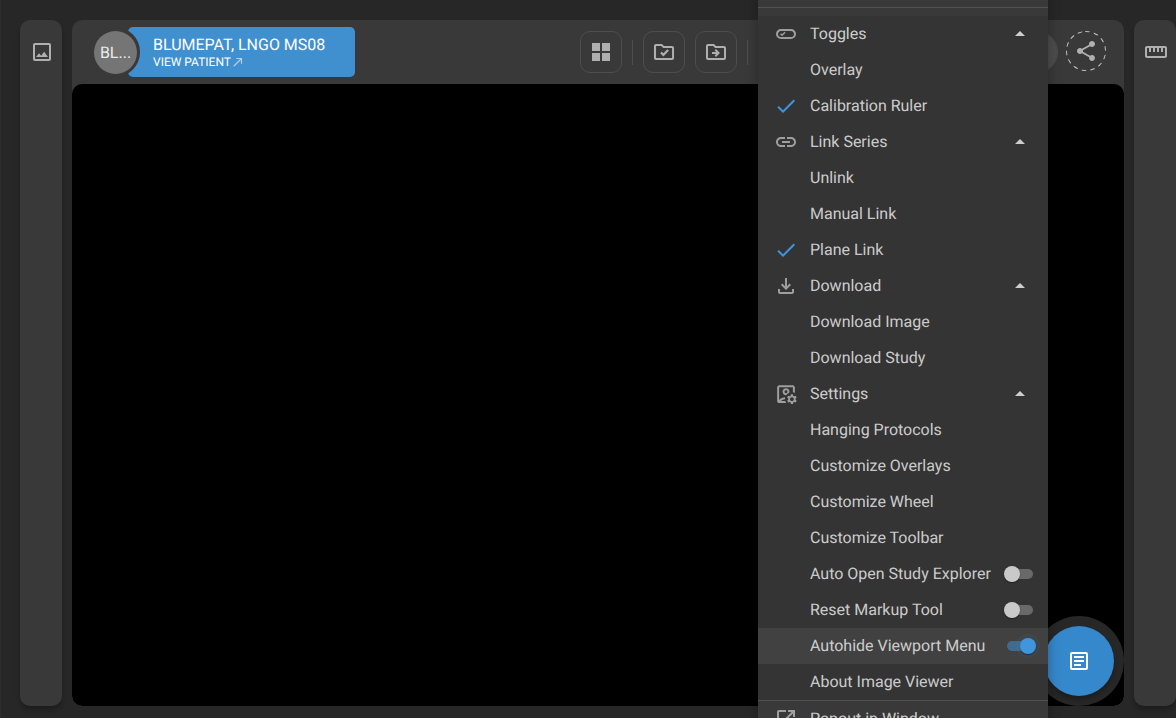
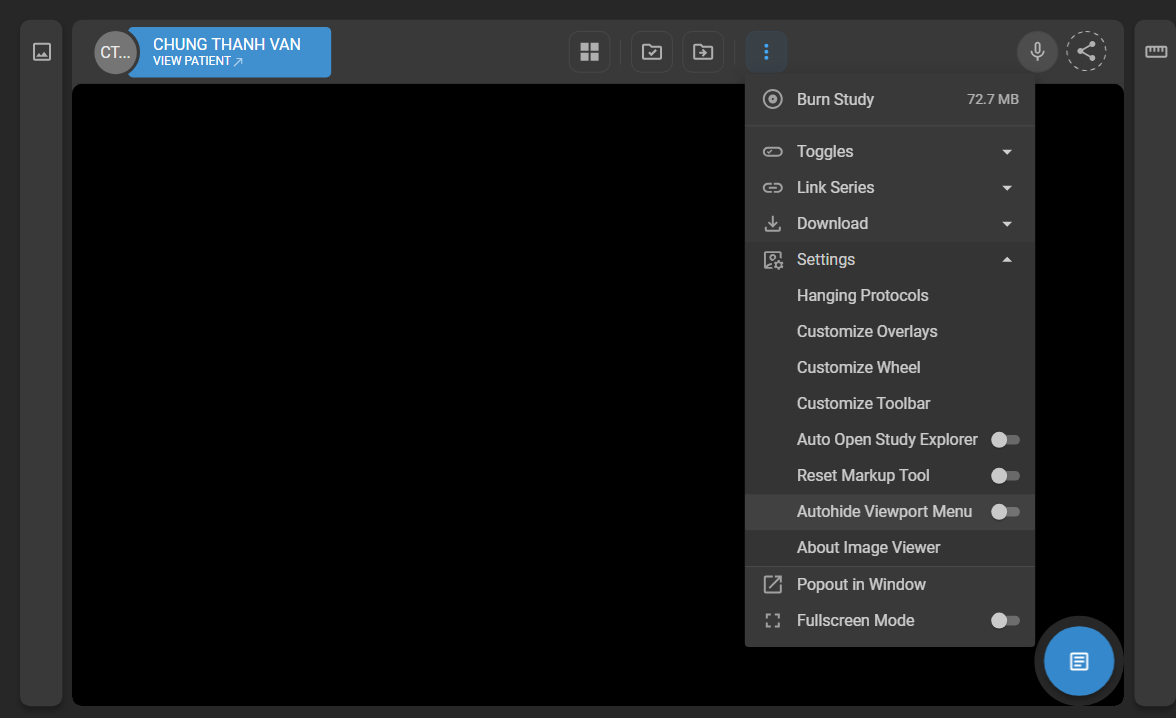
hmm

diff --git a/AutoSnap/test-enhanced-flow.js b/AutoSnap/test-enhanced-flow.js
@@ -1767,6 +1767,9 @@ if (listFilePath) {
             console.log(`📄 Files in default/translation list: ${allProcessedFiles.length}`);
             
             changedFiles = translationChangedFilesPath;
+            
+            // Clear folderPath to avoid conflict with changedFiles
+            folderPath = null;
         }
         
         // Display execution summary
@@ -1821,9 +1824,13 @@ if (listFilePath) {
             }
         }
         
-        // Continue to Tracewright execution - use existing changed files
-        console.log('✅ Translation mode processing completed, continuing to Tracewright execution...');
-        // No need to clear parameters - the main workflow will use changedFiles
+        // Don't exit - continue with Tracewright execution
+        console.log('✅ Translation mode processing completed, continuing to browser automation...');
+        
+        // Set up the environment for Tracewright
+        modeArg = 'translation'; // Keep mode as translation for browser automation
+        executionMode = 'translation'; // Keep track that we're in translation mode
+        // We'll continue to the main workflow now
     } catch (error) {
         console.error(`❌ Error in default/translation mode: ${error.message}`);
         process.exit(1);
@@ -2270,11 +2277,11 @@ const findSimilarImage = (expectedName, generatedImages) => {
     // First, execute the workflow to process command line arguments and interactive prompts
     await executeWorkflow();
     
-    // For translation mode, we've already processed the files but we need to continue to run Tracewright
-    // For other modes, if we've already processed files, we can exit
-    if (processedFileResults.length > 0 && executionMode !== 'translation') {
-        console.log('✅ File processing already completed, exiting');
-        process.exit(0);
+    // Don't skip the rest of the workflow for translation mode
+    // Just set a flag that we've already processed the folder
+    if (executionMode === 'translation') {
+        console.log('✅ Translation folder processing completed, continuing with browser automation...');
+        // Continue with the workflow - don't exit
     }
     
     console.log(`📋 Mode: ${SCENARIO_TYPE} - ${MODE_DESCRIPTIONS[SCENARIO_TYPE]}\n`);
@@ -2832,6 +2839,35 @@ if (hasNoDocumentContent) {
                     process.exit(1);
                 }
             }
+        } else if (executionMode === 'translation') {
+            // Translation mode: Use the language from the command line or detect from folder
+            try {
+                // Get language from command line or detect from folder
+                const targetLang = languageCodeArg || detectLanguageFromFolder(folderPath || '');
+                console.log(`🌐 Translation mode: setting language to ${targetLang}...`);
+                await selectLanguage(page, targetLang);
+                
+                // Check if language validation failed
+                if (languageValidationFailed) {
+                    console.log('⛔ Language validation failed in translation mode. Stopping workflow.');
+                    console.log('🛑 Exiting process with error code 1.');
+                    process.exit(1);
+                }
+                
+                // Navigate to worklist using the same home nav snippet after switching
+                try {
+                  const profileLink = page.locator('[data-cy="sidebar-home"]');
+                  await profileLink.waitFor({ state: 'visible', timeout: 15000 });
+                  await profileLink.click({ force: true });
+                  await page.waitForLoadState('networkidle', { timeout: 10000 });
+                  await page.waitForTimeout(3000);
+                } catch (navErr) {
+                  console.warn('⚠  Home nav click snippet failed after setting language (translation mode):', navErr?.message || navErr);
+                }
+                console.log(`✅ Translation mode: language set to ${targetLang}`);
+            } catch (langError) {
+                console.error(`❌ Error selecting language in translation mode:`, langError.message);
+            }
         } else {
             // Default path: force switch to English from any current language
             try {
@@ -2910,7 +2946,7 @@ if (hasNoDocumentContent) {
             const aiUtils = new AIUtilsEnhanced(page);
             
             // Set the current markdown file path for image reference
-            // Priority order: processedFileResults -> processedFiles -> testDocPath -> default
+            // Priority order: processedFileResults -> processedFiles -> default
             let currentFilePath = null;
             
             if (processedFileResults.length > 0) {
@@ -2927,26 +2963,7 @@ if (hasNoDocumentContent) {
                 console.log(`📄 Setting markdown path from processed files: ${currentFilePath}`);
             }
             
-            if (!currentFilePath) {
-                const testDocPath = 'C:/Users/Rohith.MR/test/HelpManualAutomationTest/docs/1-Getting-Started/addorg.md';
-                if (fs.existsSync(testDocPath)) {
-                    currentFilePath = testDocPath;
-                    console.log(`📄 Setting markdown path from test document: ${currentFilePath}`);
-                }
-            }
-            
-            if (!currentFilePath) {
-                // Use a specific markdown file as fallback, not a directory
-                currentFilePath = path.resolve(process.cwd(), 'docs', '6-Image-Viewer', 'default.md');
-                console.log(`📄 Setting default markdown file path: ${currentFilePath}`);
-                
-                // Ensure the directory exists for this fallback file
-                const fallbackDir = path.dirname(currentFilePath);
-                if (!fs.existsSync(fallbackDir)) {
-                    fs.mkdirSync(fallbackDir, { recursive: true });
-                    console.log(`📁 Created fallback directory: ${fallbackDir}`);
-                }
-            }
+
             
             // Set the initial file path
             console.log(`🎯 About to set current file path: ${currentFilePath}`);

diff --git a/AutoSnap/test-enhanced-flow-ci.js b/AutoSnap/test-enhanced-flow-ci.js
@@ -2644,10 +2644,10 @@ if (hasNoDocumentContent) {
                     throw new Error('Could not import AIUtilsEnhanced from any location');
                 }
             }
-            const aiUtils = new AIUtilsEnhanced(page, { mode });
+            const aiUtils = new AIUtilsEnhanced(page);
             
             // Set the current markdown file path for image reference
-            // Priority order: processedFileResults -> processedFiles -> testDocPath -> default
+            // Priority order: processedFileResults -> processedFiles -> default
             let currentFilePath = null;
             
             if (processedFileResults.length > 0) {
@@ -2664,26 +2664,9 @@ if (hasNoDocumentContent) {
                 console.log(`📄 Setting markdown path from processed files: ${currentFilePath}`);
             }
             
-            if (!currentFilePath) {
-                const testDocPath = 'docs/1-Getting-Started/addorg.md';
-                if (fs.existsSync(testDocPath)) {
-                    currentFilePath = testDocPath;
-                    console.log(`📄 Setting markdown path from test document: ${currentFilePath}`);
-                }
-            }
+            // No fallback test document - we're in production
             
-            if (!currentFilePath) {
-                // Use a specific markdown file as fallback, not a directory
-                currentFilePath = path.resolve(process.cwd(), 'docs', '6-Image-Viewer', 'default.md');
-                console.log(`📄 Setting default markdown file path: ${currentFilePath}`);
-                
-                // Ensure the directory exists for this fallback file
-                const fallbackDir = path.dirname(currentFilePath);
-                if (!fs.existsSync(fallbackDir)) {
-                    fs.mkdirSync(fallbackDir, { recursive: true });
-                    console.log(`📁 Created fallback directory: ${fallbackDir}`);
-                }
-            }
+
             
             // Set the initial file path
             console.log(`🎯 About to set current file path: ${currentFilePath}`);

diff --git a/AutoSnap/tracewrightt/src/ai_utils_enhanced.ts b/AutoSnap/tracewrightt/src/ai_utils_enhanced.ts
@@ -552,8 +552,24 @@ export class AIUtilsEnhanced {
           if (fileContent && fileContent.length > 0) {
             console.log(`✅ Path file contains: ${fileContent}`);
             
-            // Use the path from the file as the source of truth
-            const pathFromFile = this.normalizePath(fileContent);
+            // Check if the file content contains mode information (path|mode format)
+            let pathFromFile: string;
+            let mode: string = 'default';
+            
+            if (fileContent.includes('|')) {
+              const [filePath, modeInfo] = fileContent.split('|');
+              pathFromFile = this.normalizePath(filePath);
+              mode = modeInfo.trim();
+              console.log(`📝 Detected mode information: ${mode}`);
+              // Store mode as an environment variable
+              process.env.CURRENT_MD_MODE = mode;
+              // Store mode as a class property for use in other methods
+              this.currentMode = mode;
+            } else {
+              // Legacy format - just the path
+              pathFromFile = this.normalizePath(fileContent);
+            }
+            
             this.currentMdPath = pathFromFile;
             
             console.log(`📝 Using path from file: ${this.currentMdPath}`);

diff --git a/AutoSnap/preprocess_instructions.js b/AutoSnap/preprocess_instructions.js
@@ -11,12 +11,12 @@ async function generateInstructions(scenarioType = "default", changedFiles = nul
         console.log(`📄 Current file being processed: ${currentFile}`);
     }
     
-    // Map 'translation' mode to 'default' for Python script compatibility
-    let pythonScenarioType = scenarioType;
-    if (scenarioType === 'translation') {
-        console.log(`ℹ Mapping 'translation' mode to 'default' for Python script compatibility`);
-        pythonScenarioType = 'default';
-    }
+            // Map 'translation' mode to 'default' for Python script compatibility
+            let pythonScenarioType = scenarioType;
+            if (scenarioType === 'translation') {
+                console.log(`ℹ Mapping 'translation' mode to 'default' for Python script compatibility`);
+                pythonScenarioType = 'default';
+            }
     
     return new Promise((resolve, reject) => {
         // Build the argument list

diff --git a/docs/6-Image-Viewer/4_MoreOptionsToolbarMenu.md b/docs/6-Image-Viewer/4_MoreOptionsToolbarMenu.md
@@ -117,7 +117,7 @@ options:
 This feature allows you to download the current image or study. It
 offers two options:
 
-![mo5](img/mo5.png)
+![mo5](./img/mo5.png)
 
 - **Download Image**: Downloads the currently viewed image.
 
@@ -129,7 +129,7 @@ Allows you to change the settings of the Image Viewer for several
 categories as well as view the About Image Viewer software details (as
 seen below).
 
-![mo6-1](img/mo6-1.png)
+![mo6-1](./img/mo6-1.png)
 
 ### 1. Hanging Protocols
 
@@ -176,18 +176,17 @@ seen below).
 - **Purpose:** Controls the visibility of the viewport menu.
 - **Functionality:** Users can toggle this setting to automatically hide or show the viewport menu for a cleaner workspace. When enabled, the menu remains hidden until the user actively interacts with it.
 
-
 ![toggle-viewport-menu](img/toggle-viewport-menu.png)
 
 **Popout in Window**
 
 Allows you to open the current image in a separate window.
 
-![mo7](img/mo7.png)
+![mo7](./img/mo7.png)
 
 **Fullscreen Mode (Toggle Button)**
 
 Allows you to view the image in full screen mode. Clicking the button
 again will exit full screen mode.
 
-![mo8](img/mo8.png)
+![mo8](./img/mo8.png)
